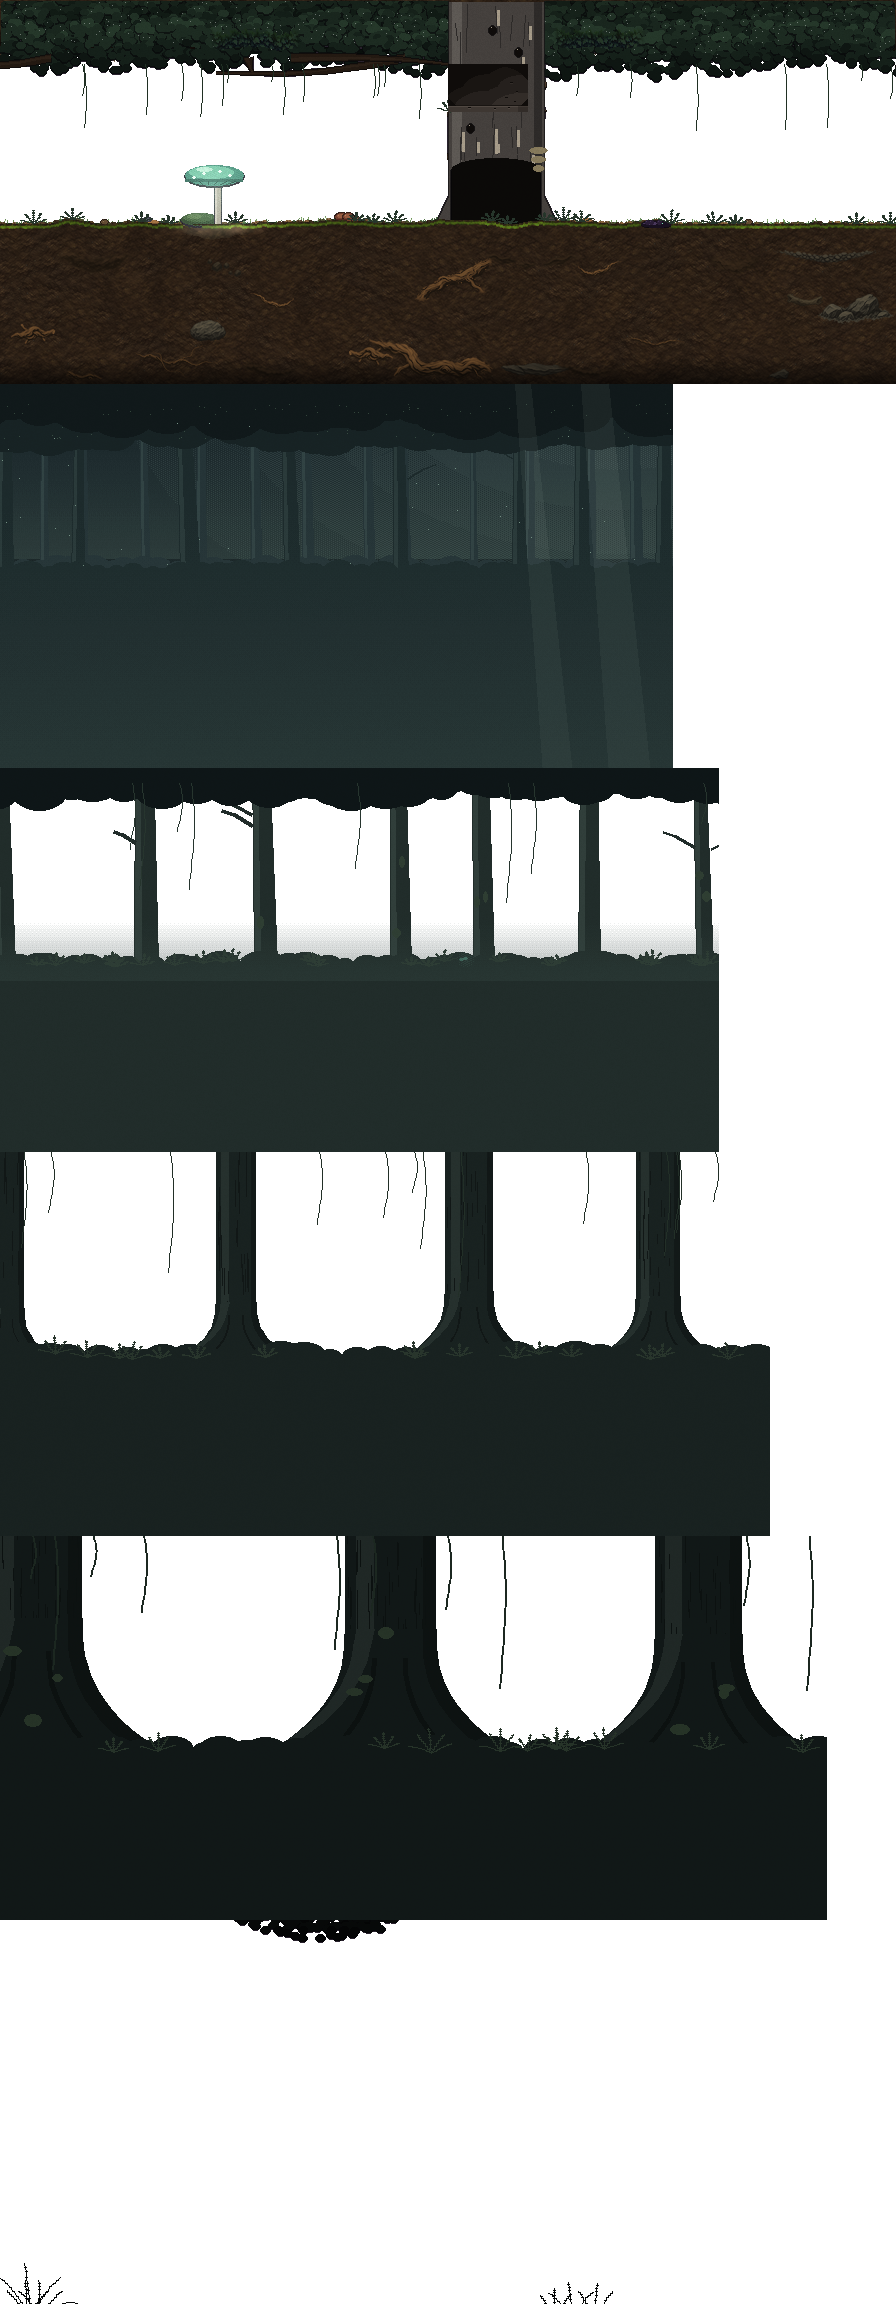
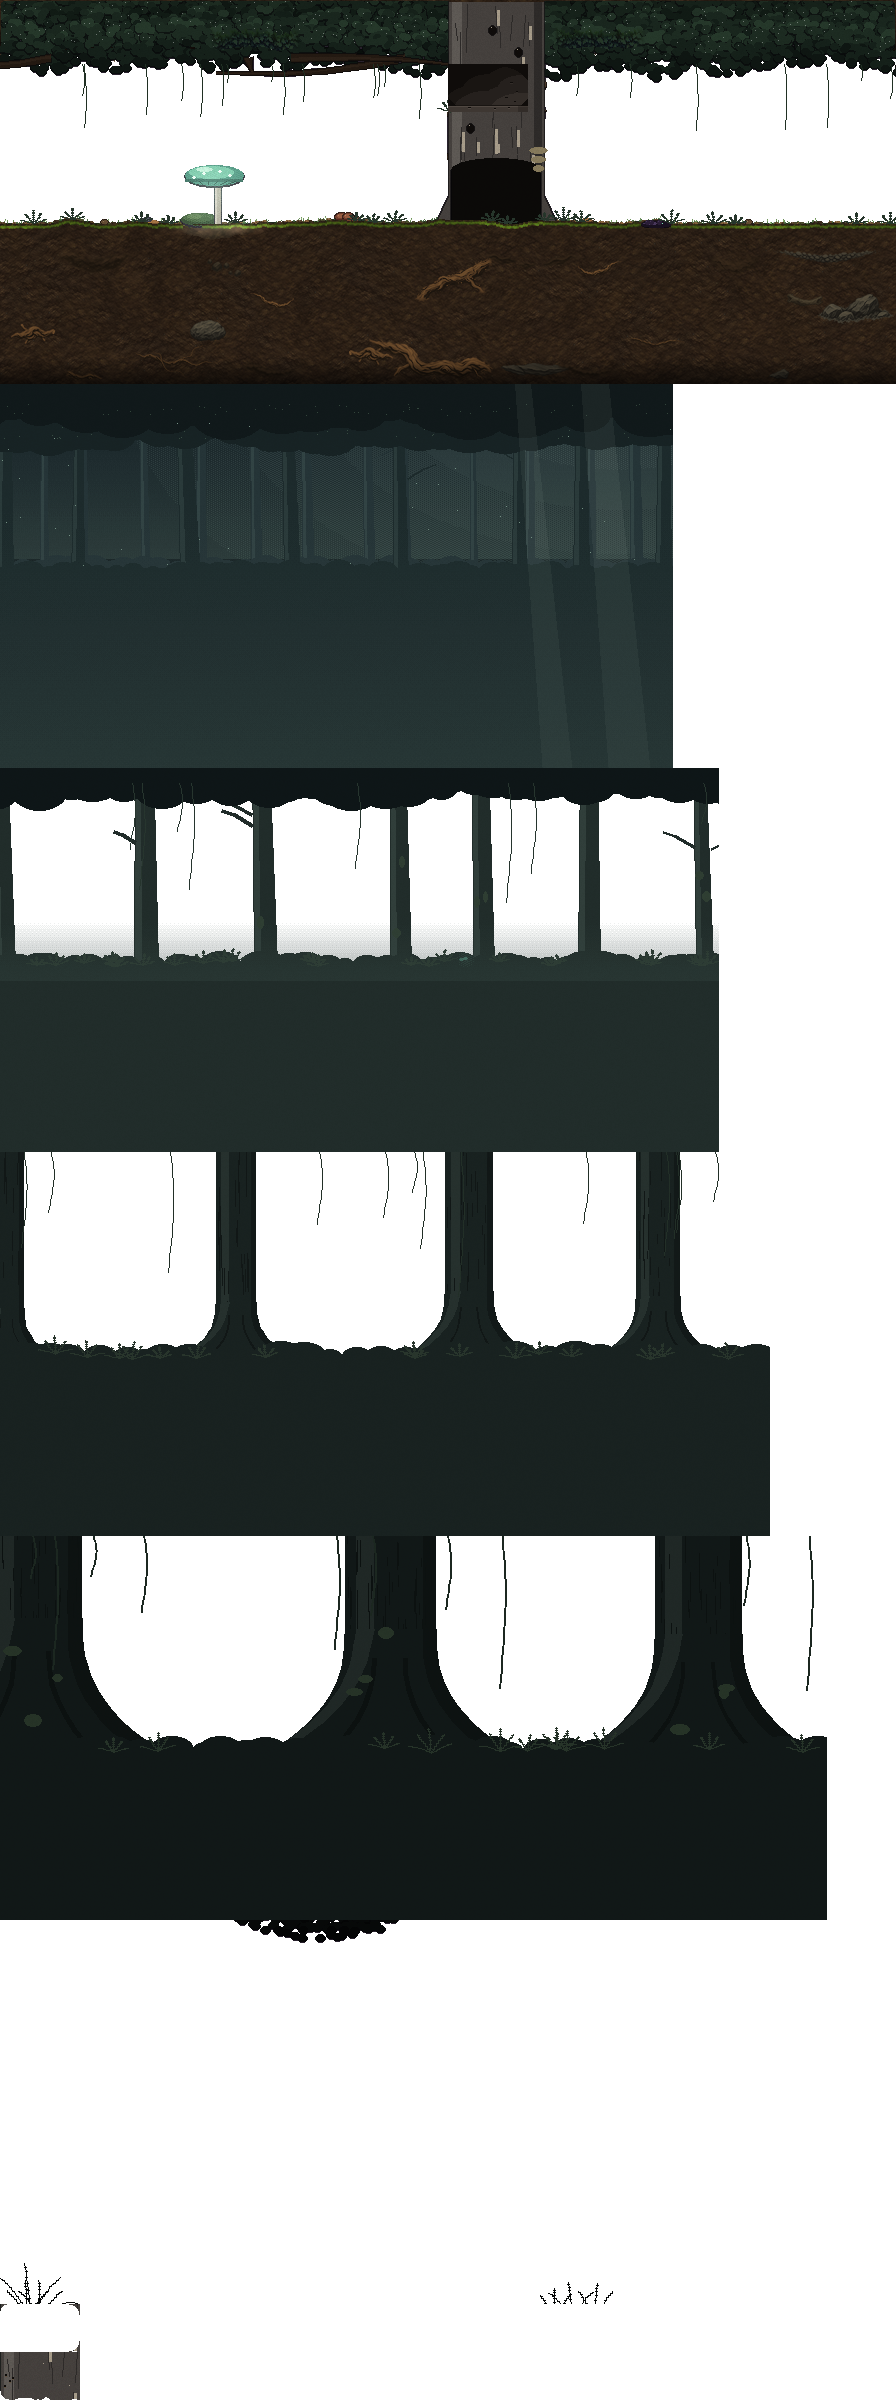
Update game (11/06/2026 1:19 PM)

diff --git a/painted.html b/painted.html
@@ -11,8 +11,8 @@
 <style>
   /* Alegreya, the title menu's lettering, comes with the game (art/fonts, a Latin cut of it) so it looks the same offline
      or when Google Fonts can't load. SIL Open Font License, in Alegreya-OFL.txt next to it */
-  @font-face { font-family: 'Alegreya'; src: url(art/fonts/Alegreya.woff?v=1106c) format('woff'); font-weight: 400 900; font-style: normal; font-display: swap; }
-  @font-face { font-family: 'Alegreya'; src: url(art/fonts/Alegreya-Italic.woff?v=1106c) format('woff'); font-weight: 400 900; font-style: italic; font-display: swap; }
+  @font-face { font-family: 'Alegreya'; src: url(art/fonts/Alegreya.woff?v=1106d) format('woff'); font-weight: 400 900; font-style: normal; font-display: swap; }
+  @font-face { font-family: 'Alegreya'; src: url(art/fonts/Alegreya-Italic.woff?v=1106d) format('woff'); font-weight: 400 900; font-style: italic; font-display: swap; }
   /* one dark toy-room look for the whole page: the game screen, a strip of controls under it, a tuning drawer */
   :root {
     --bg: #12131c; --panel: #1d2030; --line: #343a55; --fg: #e8e6f0; --dim: #9aa0bb;
@@ -55,7 +55,7 @@
   .overlay .small { color: var(--dim); font-size: 13px; max-width: 46ch; margin-inline: auto; }
   /* the title card (10/17/2026, Moonlit Grime v5): the painting fills the start screen, the title's in it, so the
      words above it are kept for screen readers only and the start note sits low over the bottom of the picture */
-  #start { background: #07080e url(art/title/title_card.jpg?v=1106c) center / contain no-repeat; place-items: end end; text-align: right; }
+  #start { background: #07080e url(art/title/title_card.jpg?v=1106d) center / contain no-repeat; place-items: end end; text-align: right; }
   #start > div:not(#title) { margin: 0 max(2%, 10px) max(2%, 10px) 0; max-width: min(38ch, 46%); padding: 8px 14px 9px; border-radius: 8px; background: rgba(7, 8, 14, .74); }   /* (bottom right, over the water: Phill's in the middle) */
   #start h1, #start .sub { position: absolute; width: 1px; height: 1px; overflow: hidden; clip: rect(0 0 0 0); white-space: nowrap; }
   #start .small { font-size: 12px; margin-inline: 0; }
@@ -64,7 +64,7 @@
      bigger box in the middle with the picture blurred and dimmed behind it. Made to go with the painting
      (10/17/2026): night blue panels with a little paper grain, cream storybook lettering, a thin worn gold edge. The night
      blue also fills round the picture where the screen's a different shape */
-  body.titlemenu #start { cursor: default; background-color: #0a1323; background-image: url(art/title/title_card.jpg?v=1106c), radial-gradient(ellipse at 50% 35%, #13213a 0%, #0b1426 55%, #070c17 100%); background-size: contain, cover; background-repeat: no-repeat; background-position: center, 0 0; }
+  body.titlemenu #start { cursor: default; background-color: #0a1323; background-image: url(art/title/title_card.jpg?v=1106d), radial-gradient(ellipse at 50% 35%, #13213a 0%, #0b1426 55%, #070c17 100%); background-size: contain, cover; background-repeat: no-repeat; background-position: center, 0 0; }
   body.titlemenu #start > div:not(#title) { display: none; }
   #title { position: absolute; inset: 0; pointer-events: none; font-family: 'Alegreya', Georgia, 'Palatino Linotype', 'Book Antiqua', serif; --cream: #f2e7cd; --gold: #e4c07a; --muted: #b9ad92; --night: 11, 20, 38; }
   /* the picture's edges melt into the night blue */
@@ -313,11 +313,11 @@
   </div>
 </div>
 <!-- the game's code. Rooms aren't listed here: they load one at a time as Phill gets near them -->
-<script>window.BUILD = '1106c';   // bump on every update: every script, room file and picture is asked for with it, so a browser never keeps an old copy</script>
-<script src="art/phill/phill_frames.js?v=1106c"></script>
-<script src="art/crow/crow_frames.js?v=1106c"></script>
-<script src="art/bear/bear_frames.js?v=1106c"></script>
-<script src="rooms/index.js?v=1106c"></script>
+<script>window.BUILD = '1106d';   // bump on every update: every script, room file and picture is asked for with it, so a browser never keeps an old copy</script>
+<script src="art/phill/phill_frames.js?v=1106d"></script>
+<script src="art/crow/crow_frames.js?v=1106d"></script>
+<script src="art/bear/bear_frames.js?v=1106d"></script>
+<script src="rooms/index.js?v=1106d"></script>
 <script>
 // the painted rooms test (10/25/2026, Source/Rooms/painted_test.py): the same game, with Rootwood's six painted rooms
 // swapped in from rooms/rootwood/painted. This page's saves and settings are kept apart from the main game's
@@ -337,79 +337,79 @@
   }
 })();
 </script>
-<script src="rooms/map.js?v=1106c"></script>
-<script src="art/rootwood/rootwood_sprites.js?v=1106c"></script>
-<script src="art/rootwood/soldier_sprites.js?v=1106c"></script>
-<script src="art/pond/pond_sprites.js?v=1106c"></script>
-<script src="art/playground/playground_sprites.js?v=1106c"></script>
-<script src="art/oak/oak_sprites.js?v=1106c"></script>
-<script src="art/wildlife/wildlife.js?v=1106c"></script>
-<script src="art/hitmasks.js?v=1106c"></script>
-<script src="art/warren/warren_sprites.js?v=1106c"></script>
-<script src="art/greenhouse/greenhouse_sprites.js?v=1106c"></script>
-<script src="art/hive/hive_sprites.js?v=1106c"></script>
-<script src="js/config.js?v=1106c"></script>
-<script src="js/input.js?v=1106c"></script>
-<script src="js/audio.js?v=1106c"></script>
-<script src="js/assets.js?v=1106c"></script>
-<script src="js/fx.js?v=1106c"></script>
-<script src="js/world.js?v=1106c"></script>
-<script src="js/sword.js?v=1106c"></script>
-<script src="js/upgrades.js?v=1106c"></script>
-<script src="js/rooms.js?v=1106c"></script>
-<script src="js/player.js?v=1106c"></script>
-<script src="js/story.js?v=1106c"></script>
-<script src="js/idle.js?v=1106c"></script>
-<script src="js/scene.js?v=1106c"></script>
-<script src="js/scenes/opening.js?v=1106c"></script>
-<script src="js/font.js?v=1106c"></script>
-<script src="js/talk.js?v=1106c"></script>
-<script src="js/pins.js?v=1106c"></script>
-<script src="js/foes.js?v=1106c"></script>
-<script src="js/boss.js?v=1106c"></script>
-<script src="js/pond.js?v=1106c"></script>
-<script src="js/pond_bosses.js?v=1106c"></script>
-<script src="js/rootwood.js?v=1106c"></script>
-<script src="js/rootwood_foes2.js?v=1106c"></script>
-<script src="js/rootwood_plants.js?v=1106c"></script>
-<script src="js/oak.js?v=1106c"></script>
-<script src="js/wildlife.js?v=1106c"></script>
-<script src="js/oak_bosses.js?v=1106c"></script>
-<script src="js/playground.js?v=1106c"></script>
-<script src="js/playground_bosses.js?v=1106c"></script>
-<script src="js/moves2.js?v=1106c"></script>
-<script src="js/map.js?v=1106c"></script>
-<script src="js/scenes/rootwood.js?v=1106c"></script>
-<script src="art/purl/purl_frames.js?v=1106c"></script>
-<script src="js/purl.js?v=1106c"></script>
-<script src="js/camera.js?v=1106c"></script>
-<script src="js/painted/render.js?v=1106c"></script>
-<script src="js/book.js?v=1106c"></script>
-<script src="js/warren.js?v=1106c"></script>
-<script src="js/greenhouse.js?v=1106c"></script>
-<script src="js/greenhouse_foes.js?v=1106c"></script>
-<script src="js/greenhouse_boss.js?v=1106c"></script>
-<script src="js/hive.js?v=1106c"></script>
-<script src="js/hive_foes.js?v=1106c"></script>
-<script src="js/hive_bosses.js?v=1106c"></script>
-<script src="js/bear.js?v=1106c"></script>
-<script src="js/ui.js?v=1106c"></script>
-<script src="js/main.js?v=1106c"></script>
-<script src="js/touch.js?v=1106c"></script>
-<script src="js/areas.js?v=1106c"></script>
-<script src="js/debug.js?v=1106c"></script>
-<script src="js/menu.js?v=1106c"></script>
-<script src="js/quests.js?v=1106c"></script>
-<script src="js/questlog.js?v=1106c"></script>
-<script src="js/pause.js?v=1106c"></script>
-<script src="js/itemcard.js?v=1106c"></script>
-<script src="js/questnote.js?v=1106c"></script>
-<script src="js/homecoming.js?v=1106c"></script>
-<script src="js/react_pieces.js?v=1106c"></script>
-<script src="js/react.js?v=1106c"></script>
-<script src="js/beetle.js?v=1106c"></script>
-<script src="js/beetle_holds.js?v=1106c"></script>
-<script src="js/swordwork.js?v=1106c"></script>
-<script src="js/trail.js?v=1106c"></script>
+<script src="rooms/map.js?v=1106d"></script>
+<script src="art/rootwood/rootwood_sprites.js?v=1106d"></script>
+<script src="art/rootwood/soldier_sprites.js?v=1106d"></script>
+<script src="art/pond/pond_sprites.js?v=1106d"></script>
+<script src="art/playground/playground_sprites.js?v=1106d"></script>
+<script src="art/oak/oak_sprites.js?v=1106d"></script>
+<script src="art/wildlife/wildlife.js?v=1106d"></script>
+<script src="art/hitmasks.js?v=1106d"></script>
+<script src="art/warren/warren_sprites.js?v=1106d"></script>
+<script src="art/greenhouse/greenhouse_sprites.js?v=1106d"></script>
+<script src="art/hive/hive_sprites.js?v=1106d"></script>
+<script src="js/config.js?v=1106d"></script>
+<script src="js/input.js?v=1106d"></script>
+<script src="js/audio.js?v=1106d"></script>
+<script src="js/assets.js?v=1106d"></script>
+<script src="js/fx.js?v=1106d"></script>
+<script src="js/world.js?v=1106d"></script>
+<script src="js/sword.js?v=1106d"></script>
+<script src="js/upgrades.js?v=1106d"></script>
+<script src="js/rooms.js?v=1106d"></script>
+<script src="js/player.js?v=1106d"></script>
+<script src="js/story.js?v=1106d"></script>
+<script src="js/idle.js?v=1106d"></script>
+<script src="js/scene.js?v=1106d"></script>
+<script src="js/scenes/opening.js?v=1106d"></script>
+<script src="js/font.js?v=1106d"></script>
+<script src="js/talk.js?v=1106d"></script>
+<script src="js/pins.js?v=1106d"></script>
+<script src="js/foes.js?v=1106d"></script>
+<script src="js/boss.js?v=1106d"></script>
+<script src="js/pond.js?v=1106d"></script>
+<script src="js/pond_bosses.js?v=1106d"></script>
+<script src="js/rootwood.js?v=1106d"></script>
+<script src="js/rootwood_foes2.js?v=1106d"></script>
+<script src="js/rootwood_plants.js?v=1106d"></script>
+<script src="js/oak.js?v=1106d"></script>
+<script src="js/wildlife.js?v=1106d"></script>
+<script src="js/oak_bosses.js?v=1106d"></script>
+<script src="js/playground.js?v=1106d"></script>
+<script src="js/playground_bosses.js?v=1106d"></script>
+<script src="js/moves2.js?v=1106d"></script>
+<script src="js/map.js?v=1106d"></script>
+<script src="js/scenes/rootwood.js?v=1106d"></script>
+<script src="art/purl/purl_frames.js?v=1106d"></script>
+<script src="js/purl.js?v=1106d"></script>
+<script src="js/camera.js?v=1106d"></script>
+<script src="js/painted/render.js?v=1106d"></script>
+<script src="js/book.js?v=1106d"></script>
+<script src="js/warren.js?v=1106d"></script>
+<script src="js/greenhouse.js?v=1106d"></script>
+<script src="js/greenhouse_foes.js?v=1106d"></script>
+<script src="js/greenhouse_boss.js?v=1106d"></script>
+<script src="js/hive.js?v=1106d"></script>
+<script src="js/hive_foes.js?v=1106d"></script>
+<script src="js/hive_bosses.js?v=1106d"></script>
+<script src="js/bear.js?v=1106d"></script>
+<script src="js/ui.js?v=1106d"></script>
+<script src="js/main.js?v=1106d"></script>
+<script src="js/touch.js?v=1106d"></script>
+<script src="js/areas.js?v=1106d"></script>
+<script src="js/debug.js?v=1106d"></script>
+<script src="js/menu.js?v=1106d"></script>
+<script src="js/quests.js?v=1106d"></script>
+<script src="js/questlog.js?v=1106d"></script>
+<script src="js/pause.js?v=1106d"></script>
+<script src="js/itemcard.js?v=1106d"></script>
+<script src="js/questnote.js?v=1106d"></script>
+<script src="js/homecoming.js?v=1106d"></script>
+<script src="js/react_pieces.js?v=1106d"></script>
+<script src="js/react.js?v=1106d"></script>
+<script src="js/beetle.js?v=1106d"></script>
+<script src="js/beetle_holds.js?v=1106d"></script>
+<script src="js/swordwork.js?v=1106d"></script>
+<script src="js/trail.js?v=1106d"></script>
 </body>
 </html>

diff --git a/rooms/rootwood/painted/woodpecker.js b/rooms/rootwood/painted/woodpecker.js
@@ -45,6 +45,18 @@ ROOM({
     1920,
     613,
     384
+   ],
+   "front": [
+    0,
+    2304,
+    80,
+    48
+   ],
+   "piece_reveal_nook_cover": [
+    0,
+    2352,
+    80,
+    48
    ]
   },
   "layers": [
@@ -70,6 +82,19 @@ ROOM({
     "x": 84
    }
   ],
+  "front": "art/rootwood/painted/woodpecker.webp#front",
+  "frontAt": [
+   448,
+   64
+  ],
+  "pieces": {
+   "reveal_nook_cover": [
+    448,
+    64,
+    80,
+    48
+   ]
+  },
   "uses": [
    "art/rootwood/rootwood_sprites.png",
    "art/rootwood/rootwood_items.png",
@@ -230,6 +255,17 @@ ROOM({
     35
    ]
   }
+ ],
+ "reveals": [
+  [
+   "reveal_nook_cover",
+   [
+    446,
+    62,
+    530,
+    118
+   ]
+  ]
  ],
  "foes": [
   {
